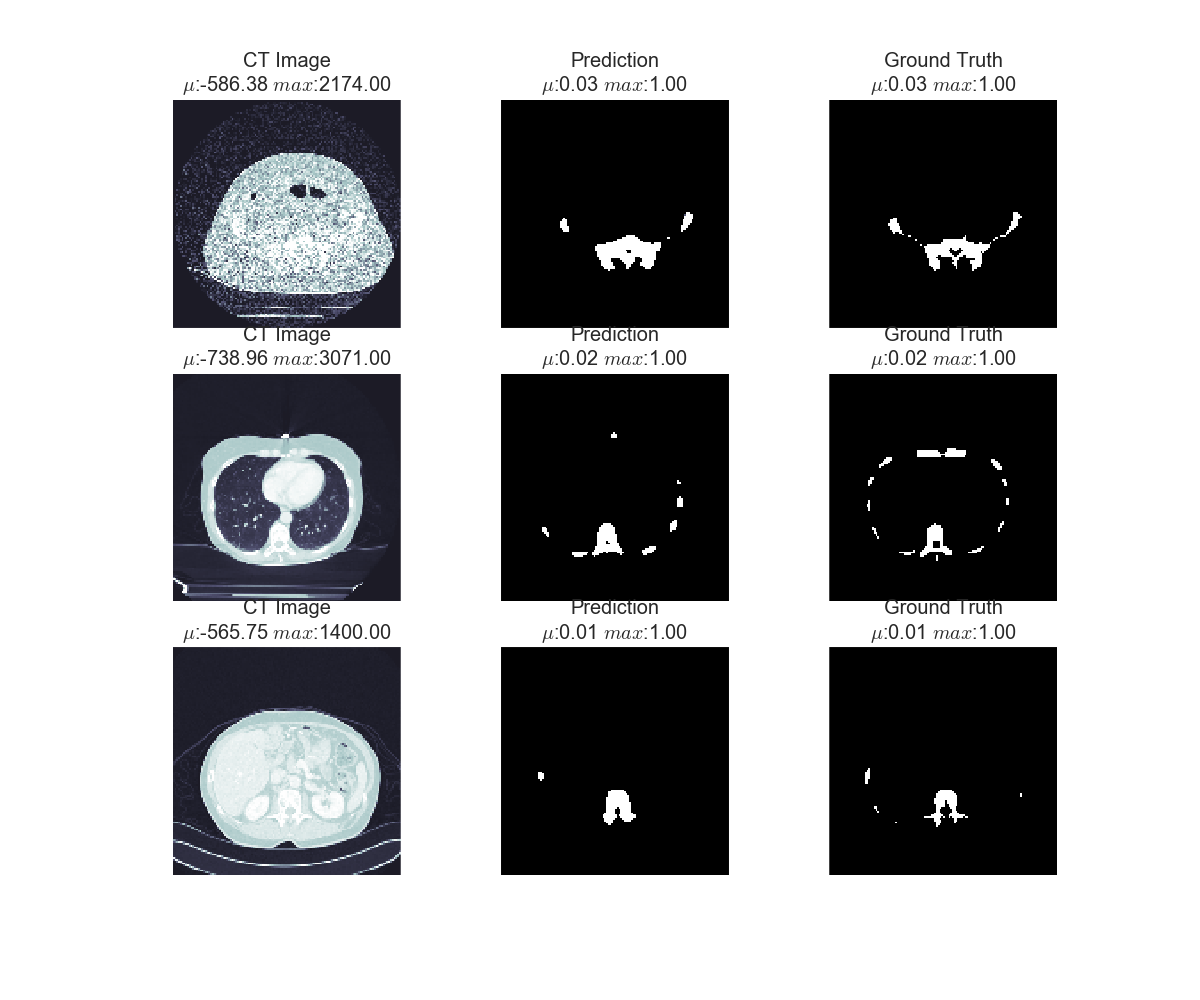
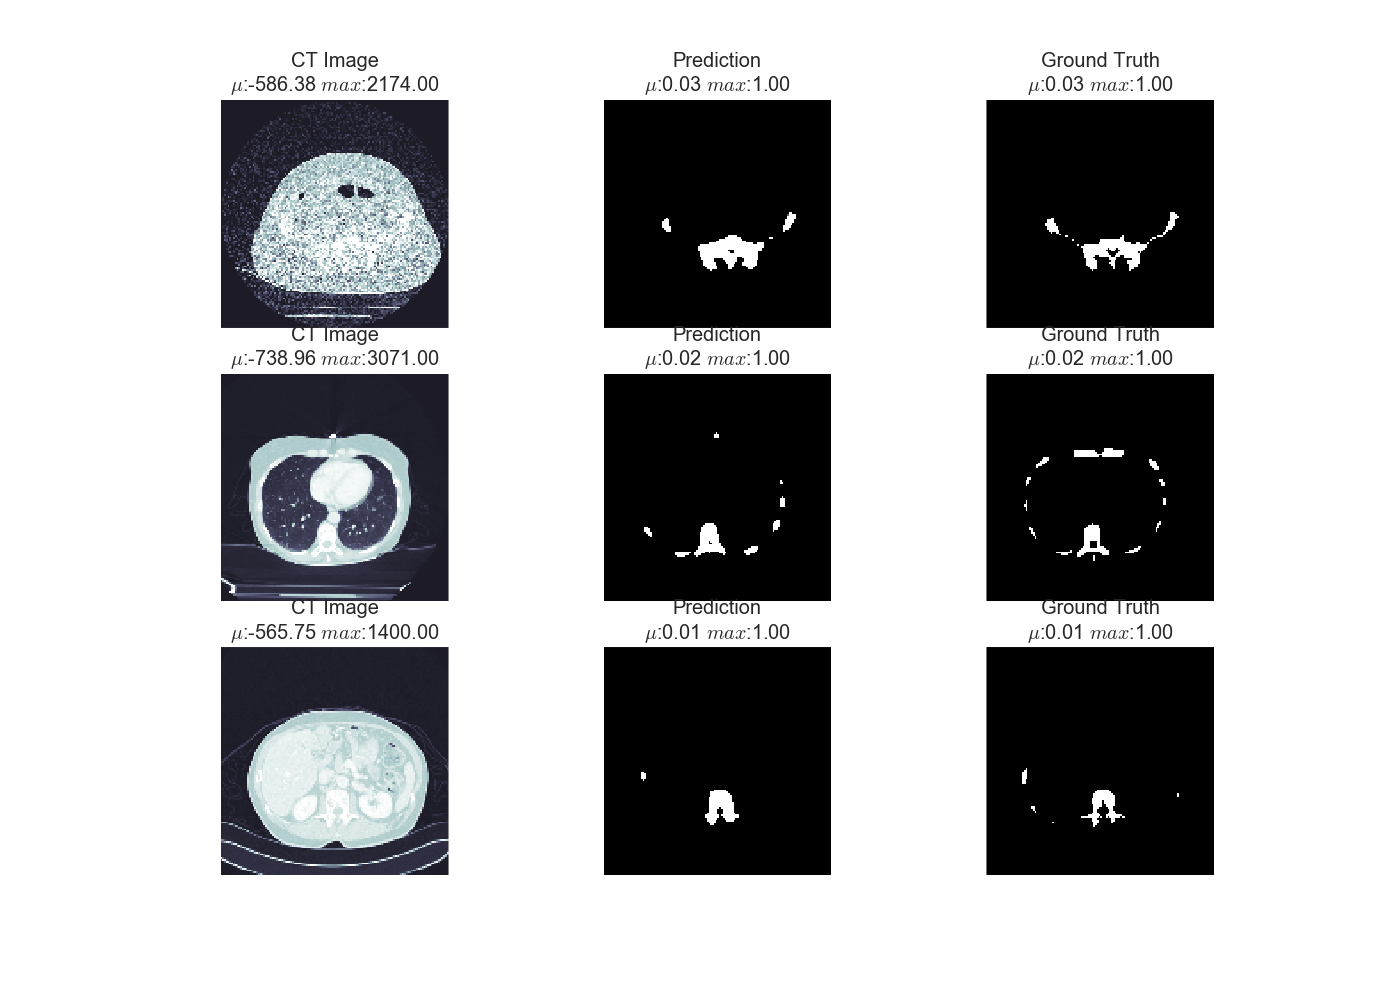
updating json to match dockerhub, fixing examples, removing warnings

diff --git a/boneseg/segmenter.py b/boneseg/segmenter.py
@@ -1,7 +1,7 @@
 import SimpleITK as sitk
 import numpy as np
 
-from prostatesegmenter.utils import reshape_volume
+from boneseg.utils import reshape_volume
 
 
 class Segmenter(object):
@@ -11,13 +11,10 @@ class Segmenter(object):
 
     def __predict(self, vol_nda):
         predicted_label = self.model.predict_test(input_test_slices_arr=vol_nda)
-        predicted_label[predicted_label > self.threshold] = 1
-        predicted_label[predicted_label <= self.threshold] = 0
         return predicted_label
 
     def segment_bone_volume(self, input_volume_path, output_mask_path, rows, cols):
         vol = sitk.ReadImage(input_volume_path)
-        vol = sitk.Cast(sitk.RescaleIntensity(vol), sitk.sitkUInt8)
         vol_nda = sitk.GetArrayFromImage(vol)
         original_shape = vol_nda.shape
         vol_nda = reshape_volume(vol_nda, rows, cols)
@@ -25,8 +22,9 @@ class Segmenter(object):
         label_nda = self.__predict(vol_nda)
         label_nda = label_nda[:, 0, :, :]
         # TODO: Check the indices for shape!
-        label_nda = reshape_volume(label_nda, original_shape[1], original_shape[2])
-        label = sitk.GetImageFromArray(label_nda)
+        # since the zoom function interpolates, threshold it again
+        label_nda = reshape_volume(label_nda, original_shape[1], original_shape[2])>0.5
+        label = sitk.GetImageFromArray(label_nda.astype(np.uint8))
         label.CopyInformation(vol)
         writer = sitk.ImageFileWriter()
         writer.Execute(label, output_mask_path, True)

diff --git a/fit.py b/fit.py
@@ -1,3 +1,11 @@
+from __future__ import print_function, absolute_import, division
+# Silence warnings
+import warnings
+warnings.simplefilter(action="ignore", category=FutureWarning)
+warnings.simplefilter(action="ignore", category=UserWarning)
+warnings.simplefilter(action="ignore", category=RuntimeWarning)
+warnings.simplefilter(action='ignore', category=DeprecationWarning)
+
 import getopt
 import os
 import sys
@@ -31,13 +39,13 @@ def main(argv):
         print('usage: fit.py -InputVolume <InputVolumePath> -OutputLabel <OutputLabelPath>')
         sys.exit()
     if os.path.isfile(InputVolume) and os.path.isdir(os.path.dirname(OutputLabel)):
-        print("Making the model.")
+        print("Building the model.")
         model = unet1.model(weights=True, summary=False)
-        cnn = CNNModel(data_streamer=ds, model=model)
+        cnn = CNNModel(model=model, mean_val = 0, max_val = 300)
         rows = 128
         cols = 128
         #
-        print("Starting the segmenter.")
+        print("Resizing images and segmenting")
         sg = Segmenter(cnn)
         sg.segment_bone_volume(InputVolume, OutputLabel, rows, cols)
     else:

diff --git a/boneseg/utils.py b/boneseg/utils.py
@@ -1,3 +1,4 @@
+from __future__ import print_function, absolute_import, division
 import numpy as np
 import os
 import sys
@@ -25,11 +26,12 @@ def dice_coef_loss(y_true, y_pred):
     return 1 - dice_coef(y_true, y_pred)
 
 
+
 def reshape_volume(nda_vol, rows, cols):
-    from cv2 import resize, INTER_CUBIC
-    nda_vol_reshaped = np.ndarray((nda_vol.shape[0], rows, cols), dtype=np.uint8)
-    for i in range(len(nda_vol)):
-        nda_vol_reshaped[i] = resize(nda_vol[i], (cols, rows), interpolation= INTER_CUBIC)
+    from scipy.ndimage import zoom
+    nda_vol_reshaped = np.ndarray((nda_vol.shape[0], rows, cols), dtype=np.float32)
+    zoom_fact = (1, rows/nda_vol.shape[1], cols/nda_vol.shape[2])
+    zoom(nda_vol, zoom_fact, output = nda_vol_reshaped)
     return nda_vol_reshaped
 
 

diff --git a/README.md b/README.md
@@ -17,9 +17,13 @@ docker build -t bone-segmenter-cpu -f Dockerfile.cpu .
 
 ##### Running the docker
 ```
-docker run -t -v [Absolute PATH to the Project Folder]/Prostate-Segmenter/prostatesegmenter/data/test/:/home/deepinfer/data deepinfer/prostate-segmenter-cpu --InputVolume /home/deepinfer/data/input.nrrd --OutputLabel /home/deepinfer/data/label_predicted_test.nrrd
+docker run -t -v [Absolute PATH to the Project Folder]/Bone-Segmenter/data/test/:/home/deepinfer/data 4Quant/bone-segmenter-cpu --InputVolume /home/deepinfer/data/input.nrrd --OutputLabel /home/deepinfer/data/label_predicted_test.nrrd
 ```
 
+Windows Example
+```
+docker run -t -v "C:\Users\Kevin Mader\Dropbox\4Quant\Projects\Bone-Segmenter":/home/deepinfer/data bone-segmenter-cpu --InputVolume /home/deepinfer/data/CTChest.nrrd --OutputLabel /home/deepinfer/data/label_predicted_test.nrrd
+```
 
 # Results
 
